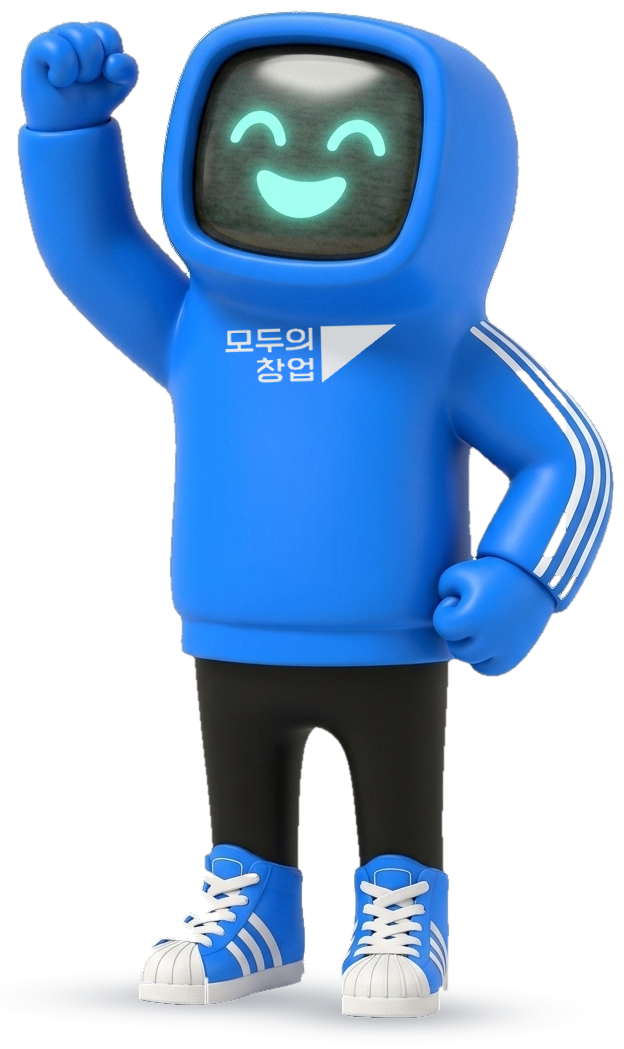
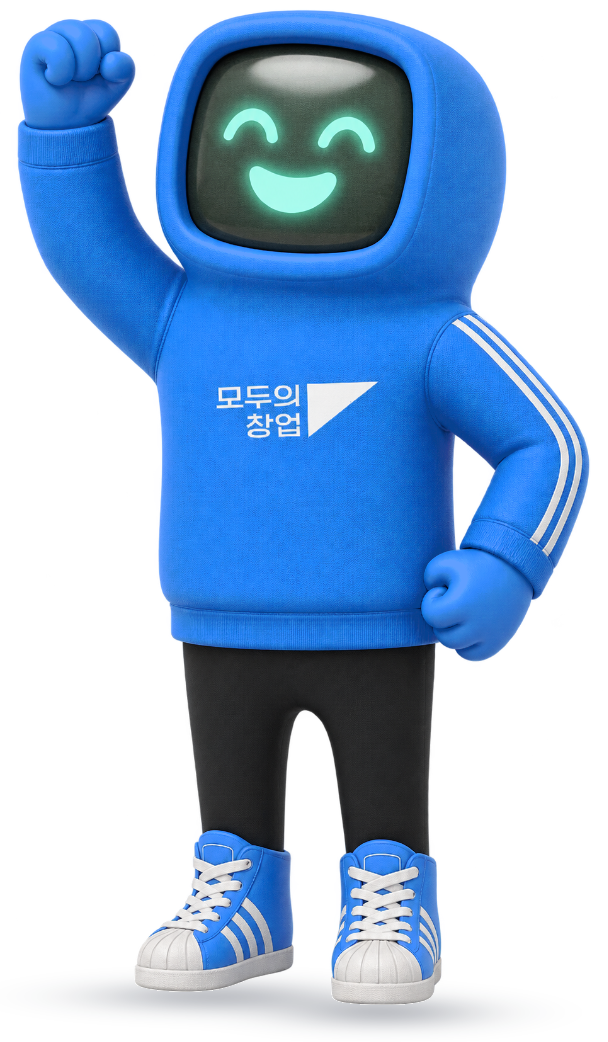
feat(story): apply knit-textured first fighting character with vibrant Royal Blue color grading

diff --git a/story.html b/story.html
@@ -250,7 +250,7 @@
             </div>
             <!-- 모두의 창업 화이팅 로봇 (우측 히어로 마스코트) -->
             <div class="hero-modu-fighting-mascot" onclick="if(typeof openSomooCharacterModal==='function'){openSomooCharacterModal(4,'modu_startup');}" title="모두의 창업 로봇 — 화이팅! (클릭 시 360° 다각도·포즈 상세 보기)">
-                <img src="assets/images/somoo-jamo-robot/modu_startup_fighting_hero.png?v=20261107_fighting1" alt="모두의 창업 로봇 화이팅 응원 포즈 (웃는 모니터 표정)" decoding="async">
+                <img src="assets/images/somoo-jamo-robot/modu_startup_fighting_hero.png?v=20261107_fighting2" alt="모두의 창업 로봇 화이팅 응원 포즈 (웃는 모니터 표정)" decoding="async">
             </div>
         </div>
         <!-- /Hero Banner -->
